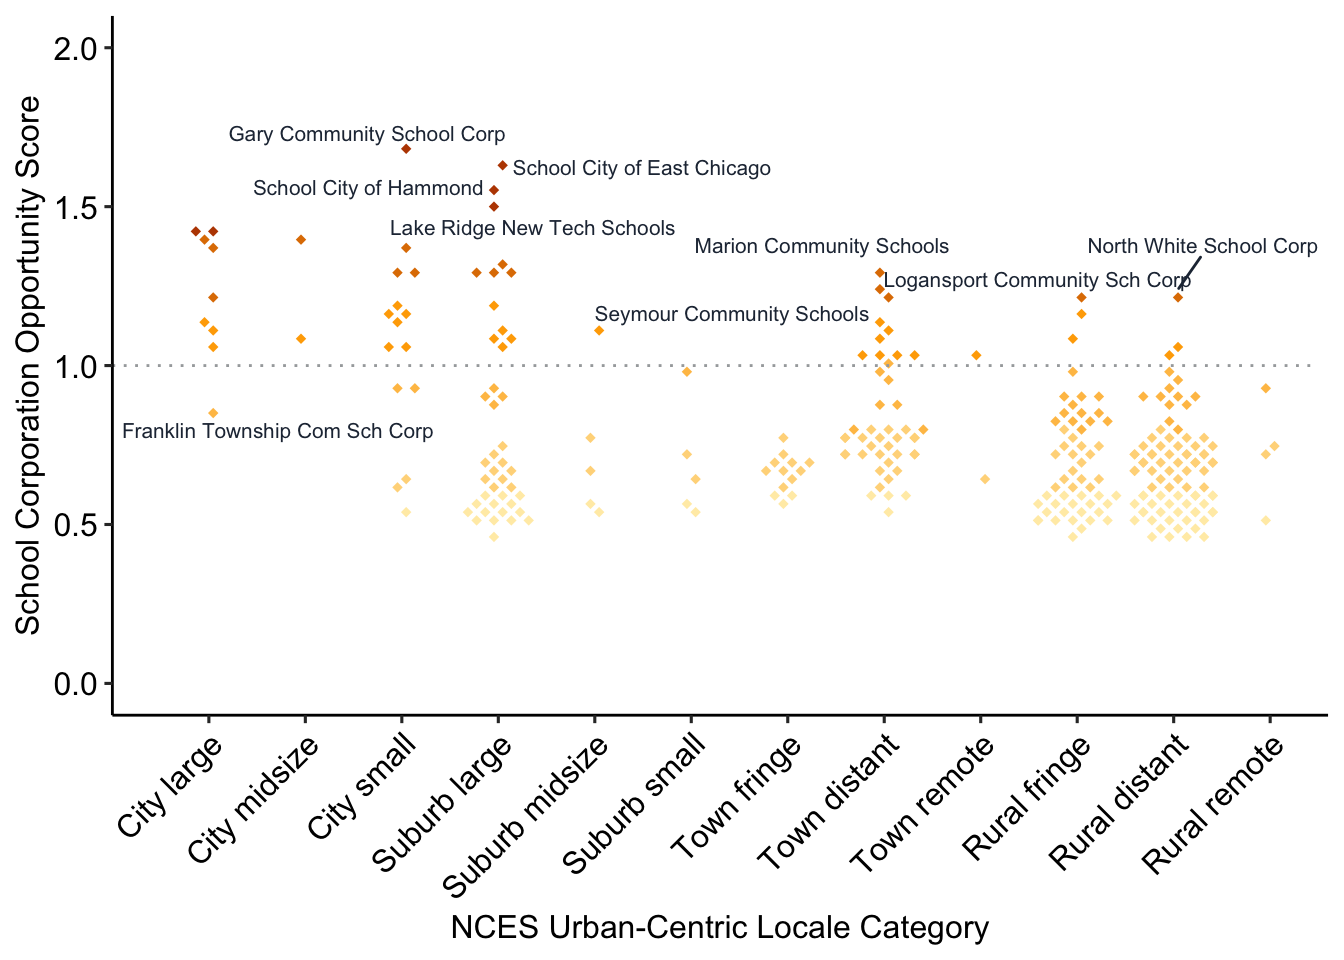
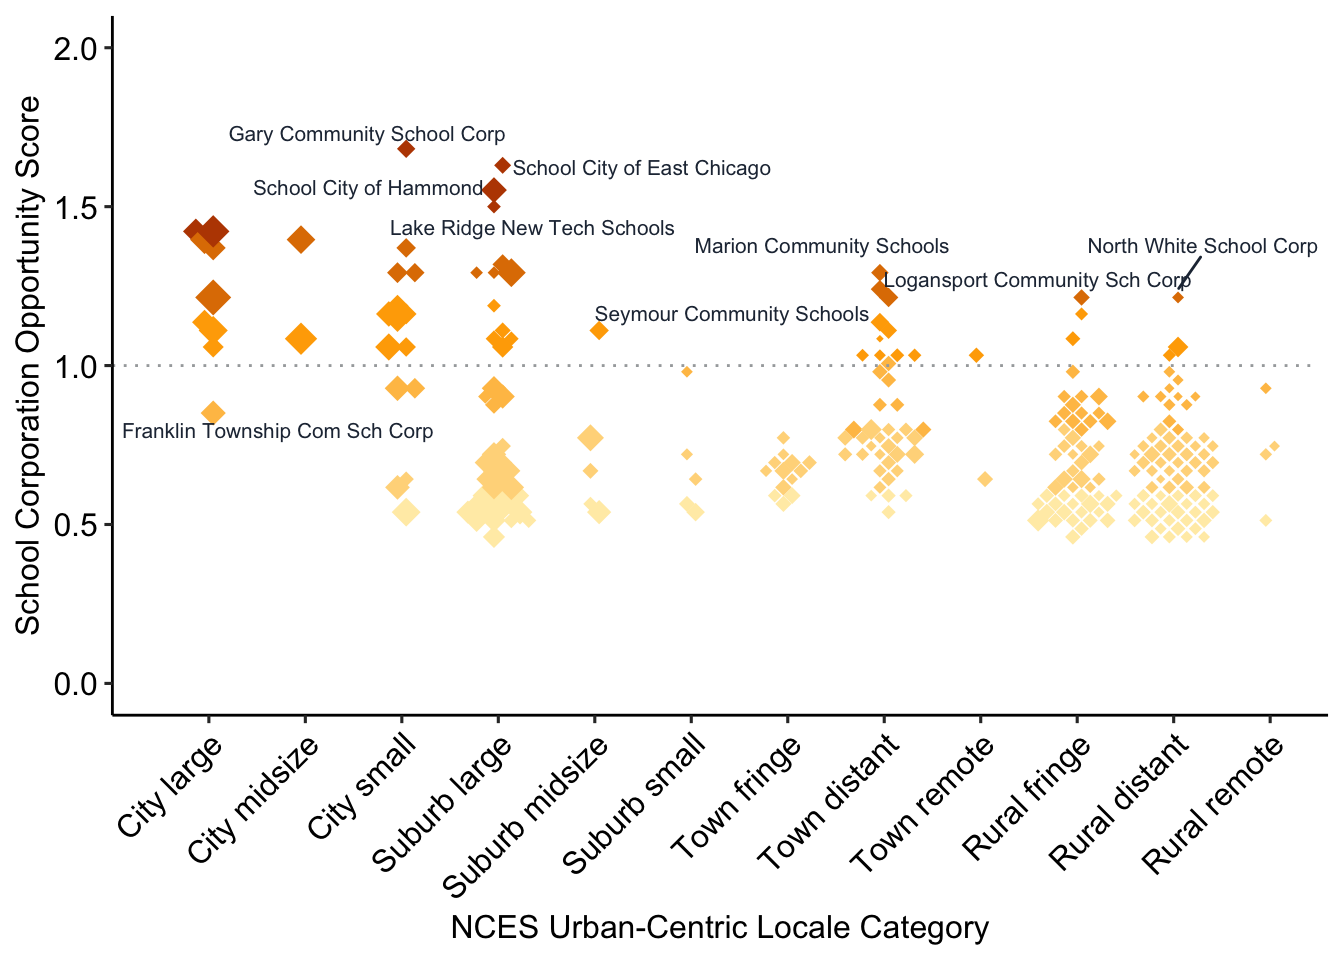
changed scatterplots to reflect enrollment

diff --git a/docs/index.html b/docs/index.html
@@ -439,7 +439,7 @@ Note
 #&gt;  collate  en_US.UTF-8
 #&gt;  ctype    en_US.UTF-8
 #&gt;  tz       America/Indiana/Indianapolis
-#&gt;  date     2023-06-15
+#&gt;  date     2023-06-16
 #&gt;  pandoc   3.1.3 @ /opt/homebrew/bin/ (via rmarkdown)
 #&gt; 
 #&gt; ─ Packages ───────────────────────────────────────────────────────────────────
